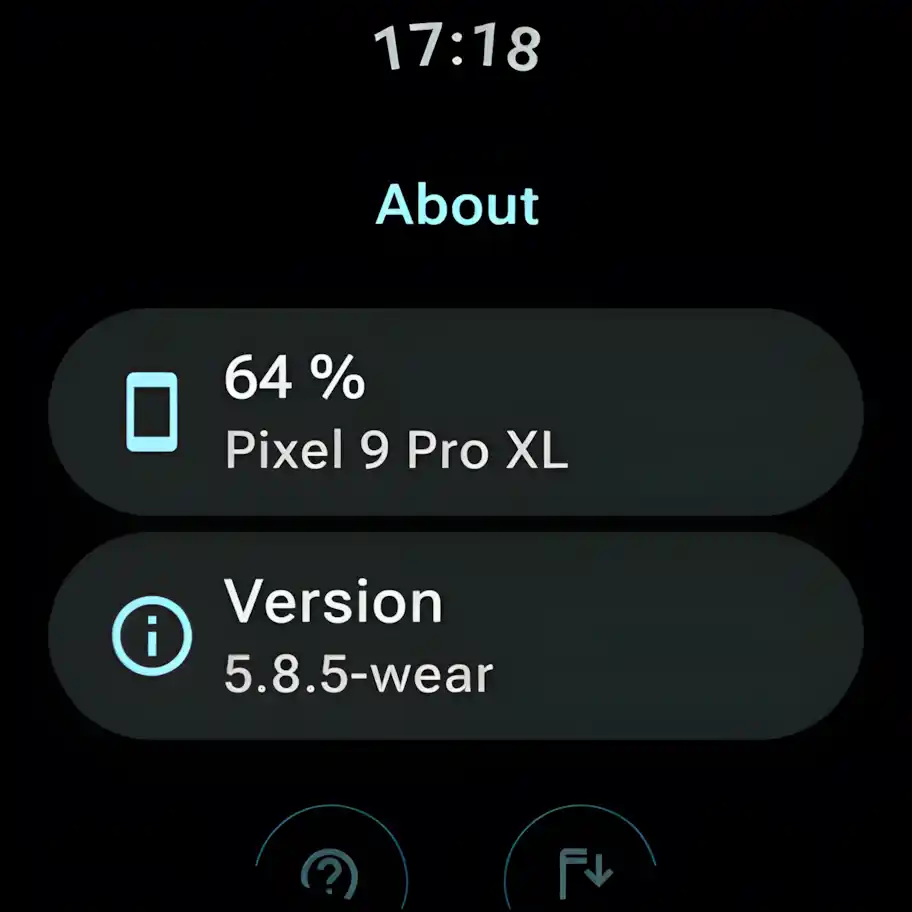
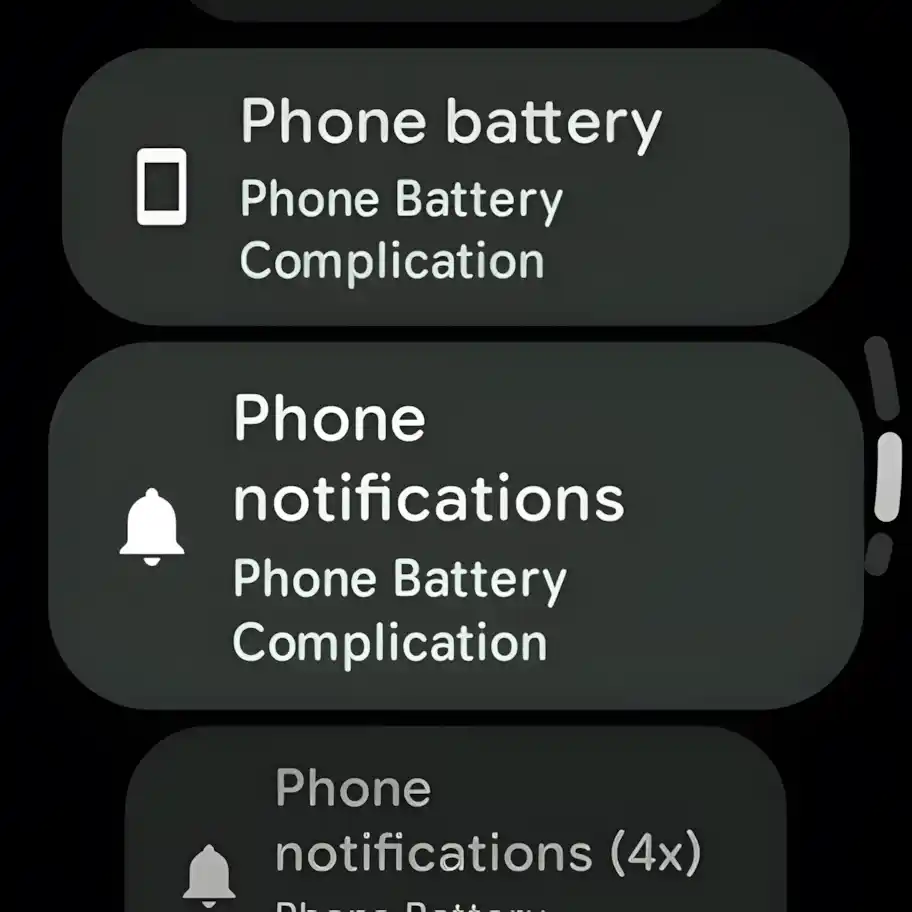
Add new phone batt comp screenshots

diff --git a/apps.html b/apps.html
@@ -71,25 +71,35 @@
         <a href="contact">Contact</a>
         <button id="snow-toggle" class="theme-toggle snow-toggle" aria-label="Toggle snow animation"
           title="Toggle snow animation" style="display: none;">
-          <svg xmlns="http://www.w3.org/2000/svg" height="20px" viewBox="0 -960 960 960" width="20px" fill="currentColor">
-            <path d="M450-80v-95l-73 62-39-46 112-94v-175l-151 87-26 145-59-11 17-94-82 47-30-52 82-47-90-33 20-56 138 49 150-87-150-86-138 49-20-56 90-33-82-48 30-52 82 48-17-94 59-11 26 145 151 87v-175l-112-94 39-46 73 62v-96h60v96l72-62 39 46-111 94v175l150-87 26-145 59 11-17 94 82-47 30 53-82 46 90 33-20 56-138-49-150 86 150 87 138-49 20 56-90 33 83 47-30 52-83-47 17 94-59 11-26-145-150-87v175l111 94-39 46-72-62v95h-60Z"/>
+          <svg xmlns="http://www.w3.org/2000/svg" height="20px" viewBox="0 -960 960 960" width="20px"
+            fill="currentColor">
+            <path
+              d="M450-80v-95l-73 62-39-46 112-94v-175l-151 87-26 145-59-11 17-94-82 47-30-52 82-47-90-33 20-56 138 49 150-87-150-86-138 49-20-56 90-33-82-48 30-52 82 48-17-94 59-11 26 145 151 87v-175l-112-94 39-46 73 62v-96h60v96l72-62 39 46-111 94v175l150-87 26-145 59 11-17 94 82-47 30 53-82 46 90 33-20 56-138-49-150 86 150 87 138-49 20 56-90 33 83 47-30 52-83-47 17 94-59 11-26-145-150-87v175l111 94-39 46-72-62v95h-60Z" />
           </svg>
         </button>
         <button id="notif-toggle" class="theme-toggle notif-toggle" aria-label="Enable notifications"
           title="Enable notifications">
-          <svg class="bell-default-icon" xmlns="http://www.w3.org/2000/svg" height="20px" viewBox="0 -960 960 960" width="20px" fill="currentColor">
-            <path d="M200-200q-17 0-28.5-11.5T160-240q0-17 11.5-28.5T200-280h40v-280q0-83 50-147.5T420-792v-28q0-25 17.5-42.5T480-880q25 0 42.5 17.5T540-820v28q80 20 130 84.5T720-560v280h40q17 0 28.5 11.5T800-240q0 17-11.5 28.5T760-200H200Zm280-300Zm0 420q-33 0-56.5-23.5T400-160h160q0 33-23.5 56.5T480-80ZM320-280h320v-280q0-66-47-113t-113-47q-66 0-113 47t-47 113v280Z"/>
+          <svg class="bell-default-icon" xmlns="http://www.w3.org/2000/svg" height="20px" viewBox="0 -960 960 960"
+            width="20px" fill="currentColor">
+            <path
+              d="M200-200q-17 0-28.5-11.5T160-240q0-17 11.5-28.5T200-280h40v-280q0-83 50-147.5T420-792v-28q0-25 17.5-42.5T480-880q25 0 42.5 17.5T540-820v28q80 20 130 84.5T720-560v280h40q17 0 28.5 11.5T800-240q0 17-11.5 28.5T760-200H200Zm280-300Zm0 420q-33 0-56.5-23.5T400-160h160q0 33-23.5 56.5T480-80ZM320-280h320v-280q0-66-47-113t-113-47q-66 0-113 47t-47 113v280Z" />
           </svg>
-          <svg class="bell-active-icon" xmlns="http://www.w3.org/2000/svg" height="20px" viewBox="0 -960 960 960" width="20px" fill="currentColor" style="display: none;">
-            <path d="M200-200q-17 0-28.5-11.5T160-240q0-17 11.5-28.5T200-280h40v-280q0-83 50-147.5T420-792v-28q0-25 17.5-42.5T480-880q25 0 42.5 17.5T540-820v28q80 20 130 84.5T720-560v280h40q17 0 28.5 11.5T800-240q0 17-11.5 28.5T760-200H200ZM480-80q-33 0-56.5-23.5T400-160h160q0 33-23.5 56.5T480-80ZM120-560q-17 0-28.5-13T82-603q8-75 42-139.5T211-855q13-11 29.5-10t26.5 15q10 14 8 30t-15 28q-39 37-64 86t-33 106q-2 17-14 28.5T120-560Zm720 0q-17 0-29-11.5T797-600q-8-57-33-106t-64-86q-13-12-15-28t8-30q10-14 26.5-15t29.5 10q53 48 87 112.5T878-603q2 17-9.5 30T840-560Z"/>
+          <svg class="bell-active-icon" xmlns="http://www.w3.org/2000/svg" height="20px" viewBox="0 -960 960 960"
+            width="20px" fill="currentColor" style="display: none;">
+            <path
+              d="M200-200q-17 0-28.5-11.5T160-240q0-17 11.5-28.5T200-280h40v-280q0-83 50-147.5T420-792v-28q0-25 17.5-42.5T480-880q25 0 42.5 17.5T540-820v28q80 20 130 84.5T720-560v280h40q17 0 28.5 11.5T800-240q0 17-11.5 28.5T760-200H200ZM480-80q-33 0-56.5-23.5T400-160h160q0 33-23.5 56.5T480-80ZM120-560q-17 0-28.5-13T82-603q8-75 42-139.5T211-855q13-11 29.5-10t26.5 15q10 14 8 30t-15 28q-39 37-64 86t-33 106q-2 17-14 28.5T120-560Zm720 0q-17 0-29-11.5T797-600q-8-57-33-106t-64-86q-13-12-15-28t8-30q10-14 26.5-15t29.5 10q53 48 87 112.5T878-603q2 17-9.5 30T840-560Z" />
           </svg>
         </button>
         <button id="theme-toggle" class="theme-toggle" aria-label="Switch theme">
-          <svg class="sun-icon" xmlns="http://www.w3.org/2000/svg" height="20px" viewBox="0 -960 960 960" width="20px" fill="currentColor" style="display: none;">
-            <path d="M451.5-771.5Q440-783 440-800v-80q0-17 11.5-28.5T480-920q17 0 28.5 11.5T520-880v80q0 17-11.5 28.5T480-760q-17 0-28.5-11.5ZM678-678q-11-11-11-27.5t11-28.5l56-57q12-12 28.5-12t28.5 12q11 11 11 28t-11 28l-57 57q-11 11-28 11t-28-11Zm122 238q-17 0-28.5-11.5T760-480q0-17 11.5-28.5T800-520h80q17 0 28.5 11.5T920-480q0 17-11.5 28.5T880-440h-80ZM451.5-51.5Q440-63 440-80v-80q0-17 11.5-28.5T480-200q17 0 28.5 11.5T520-160v80q0 17-11.5 28.5T480-40q-17 0-28.5-11.5ZM226-678l-57-56q-12-12-12-29t12-28q11-11 28-11t28 11l57 57q11 11 11 28t-11 28q-12 11-28 11t-28-11Zm508 509-56-57q-11-12-11-28.5t11-27.5q11-11 27.5-11t28.5 11l57 56q12 11 11.5 28T791-169q-12 12-29 12t-28-12ZM80-440q-17 0-28.5-11.5T40-480q0-17 11.5-28.5T80-520h80q17 0 28.5 11.5T200-480q0 17-11.5 28.5T160-440H80Zm89 271q-11-11-11-28t11-28l57-57q11-11 27.5-11t28.5 11q12 12 12 28.5T282-225l-56 56q-12 12-29 12t-28-12Zm141-141q-70-70-70-170t70-170q70-70 170-70t170 70q70 70 70 170t-70 170q-70 70-170 70t-170-70Zm283-57q47-47 47-113t-47-113q-47-47-113-47t-113 47q-47 47-47 113t47 113q47 47 113 47t113-47ZM480-480Z"/>
+          <svg class="sun-icon" xmlns="http://www.w3.org/2000/svg" height="20px" viewBox="0 -960 960 960" width="20px"
+            fill="currentColor" style="display: none;">
+            <path
+              d="M451.5-771.5Q440-783 440-800v-80q0-17 11.5-28.5T480-920q17 0 28.5 11.5T520-880v80q0 17-11.5 28.5T480-760q-17 0-28.5-11.5ZM678-678q-11-11-11-27.5t11-28.5l56-57q12-12 28.5-12t28.5 12q11 11 11 28t-11 28l-57 57q-11 11-28 11t-28-11Zm122 238q-17 0-28.5-11.5T760-480q0-17 11.5-28.5T800-520h80q17 0 28.5 11.5T920-480q0 17-11.5 28.5T880-440h-80ZM451.5-51.5Q440-63 440-80v-80q0-17 11.5-28.5T480-200q17 0 28.5 11.5T520-160v80q0 17-11.5 28.5T480-40q-17 0-28.5-11.5ZM226-678l-57-56q-12-12-12-29t12-28q11-11 28-11t28 11l57 57q11 11 11 28t-11 28q-12 11-28 11t-28-11Zm508 509-56-57q-11-12-11-28.5t11-27.5q11-11 27.5-11t28.5 11l57 56q12 11 11.5 28T791-169q-12 12-29 12t-28-12ZM80-440q-17 0-28.5-11.5T40-480q0-17 11.5-28.5T80-520h80q17 0 28.5 11.5T200-480q0 17-11.5 28.5T160-440H80Zm89 271q-11-11-11-28t11-28l57-57q11-11 27.5-11t28.5 11q12 12 12 28.5T282-225l-56 56q-12 12-29 12t-28-12Zm141-141q-70-70-70-170t70-170q70-70 170-70t170 70q70 70 70 170t-70 170q-70 70-170 70t-170-70Zm283-57q47-47 47-113t-47-113q-47-47-113-47t-113 47q-47 47-47 113t47 113q47 47 113 47t113-47ZM480-480Z" />
           </svg>
-          <svg class="moon-icon" xmlns="http://www.w3.org/2000/svg" height="20px" viewBox="0 -960 960 960" width="20px" fill="currentColor" style="display: none;">
-            <path d="M484-80q-84 0-157.5-32t-128-86.5Q144-253 112-326.5T80-484q0-128 72-232t193-146q22-8 41 5.5t18 36.5q-3 85 27 162t90 137q60 60 137 90t162 27q26-1 38.5 17.5T863-345q-44 120-147.5 192.5T484-80Zm0-80q88 0 163-44t118-121q-86-8-163-43.5T464-465q-61-61-97-138t-43-163q-77 43-120.5 118.5T160-484q0 135 94.5 229.5T484-160Zm-20-305Z"/>
+          <svg class="moon-icon" xmlns="http://www.w3.org/2000/svg" height="20px" viewBox="0 -960 960 960" width="20px"
+            fill="currentColor" style="display: none;">
+            <path
+              d="M484-80q-84 0-157.5-32t-128-86.5Q144-253 112-326.5T80-484q0-128 72-232t193-146q22-8 41 5.5t18 36.5q-3 85 27 162t90 137q60 60 137 90t162 27q26-1 38.5 17.5T863-345q-44 120-147.5 192.5T484-80Zm0-80q88 0 163-44t118-121q-86-8-163-43.5T464-465q-61-61-97-138t-43-163q-77 43-120.5 118.5T160-484q0 135 94.5 229.5T484-160Zm-20-305Z" />
           </svg>
         </button>
       </nav>
@@ -127,8 +137,7 @@
       </div>
 
       <div class="card">
-        <img src="assets/appIcons/phonebattcomp.webp" class="app-icon"
-          alt="Phone Battery Complication Icon" />
+        <img src="assets/appIcons/phonebattcomp.webp" class="app-icon" alt="Phone Battery Complication Icon" />
         <h3>Phone Battery Complication <span class="badge-pill">Open Source</span> <span class="badge-pill">Free</span>
         </h3>
         <p>
@@ -137,10 +146,10 @@
           external servers.
         </p>
         <div class="screenshots-container">
-          <img src="assets/screenshots/phonebatterycomplication_scr_1.webp"
-            alt="Phone Battery Complication Screenshot 1" class="app-screenshot" />
-          <img src="assets/screenshots/phonebatterycomplication_scr_2.webp"
-            alt="Phone Battery Complication Screenshot 2" class="app-screenshot" />
+          <img src="assets/screenshots/phonebattcomp_1.webp" alt="Phone Battery Complication Screenshot 1"
+            class="app-screenshot" />
+          <img src="assets/screenshots/phonebattcomp_2.webp" alt="Phone Battery Complication Screenshot 2"
+            class="app-screenshot" />
         </div>
         <div class="links">
           <a href="https://play.google.com/store/apps/details?id=com.weartools.phonebattcomp" target="_blank"
@@ -300,7 +309,8 @@
       <a href="https://x.com/amoledwfs" target="_blank" rel="noopener" aria-label="X (formerly Twitter)">
         <svg viewBox="0 0 16 16">
           <path d="M0 0h16v16H0z" fill="none" />
-          <path fill="currentColor" d="M12.6.75h2.454l-5.36 6.142L16 15.25h-4.937l-3.867-5.07l-4.425 5.07H.316l5.733-6.57L0 .75h5.063l3.495 4.633L12.601.75Zm-.86 13.028h1.36L4.323 2.145H2.865z" />
+          <path fill="currentColor"
+            d="M12.6.75h2.454l-5.36 6.142L16 15.25h-4.937l-3.867-5.07l-4.425 5.07H.316l5.733-6.57L0 .75h5.063l3.495 4.633L12.601.75Zm-.86 13.028h1.36L4.323 2.145H2.865z" />
         </svg>
       </a>
       <a href="https://t.me/amoledwatchfaces" target="_blank" rel="noopener" aria-label="Telegram">
